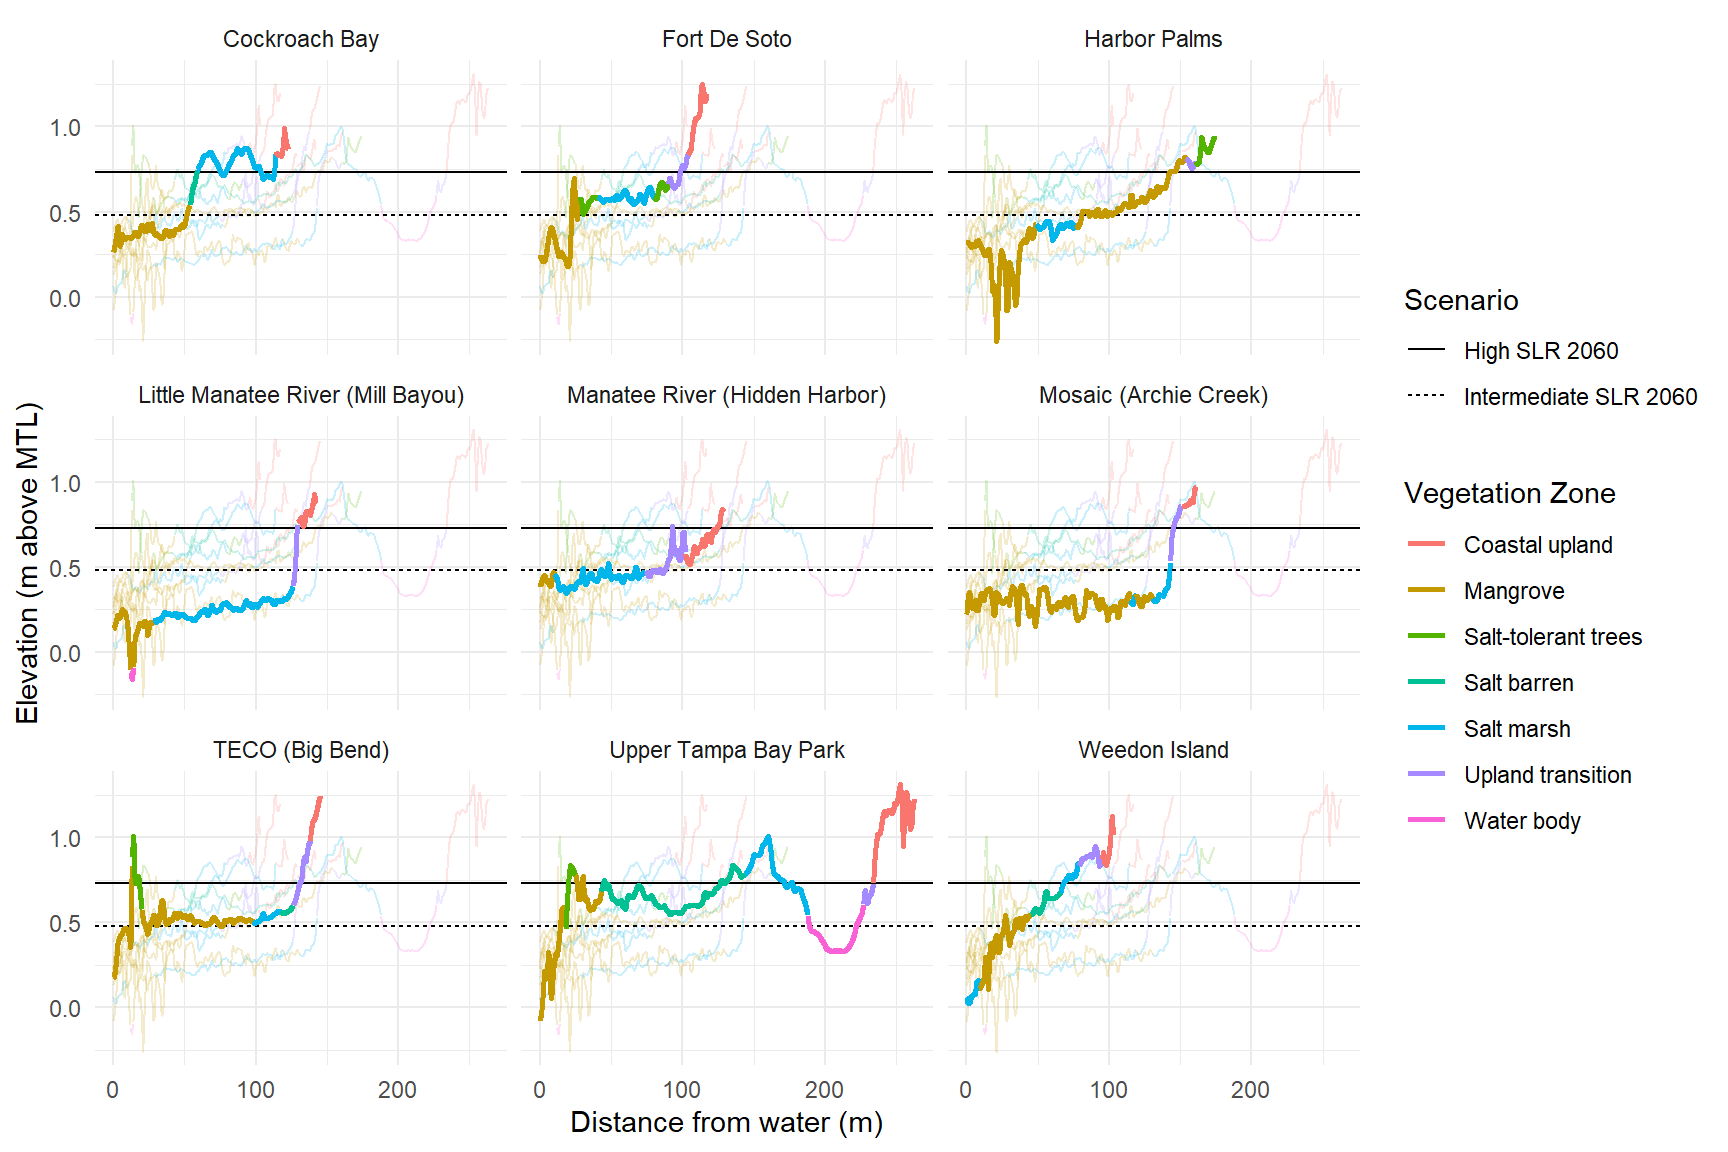
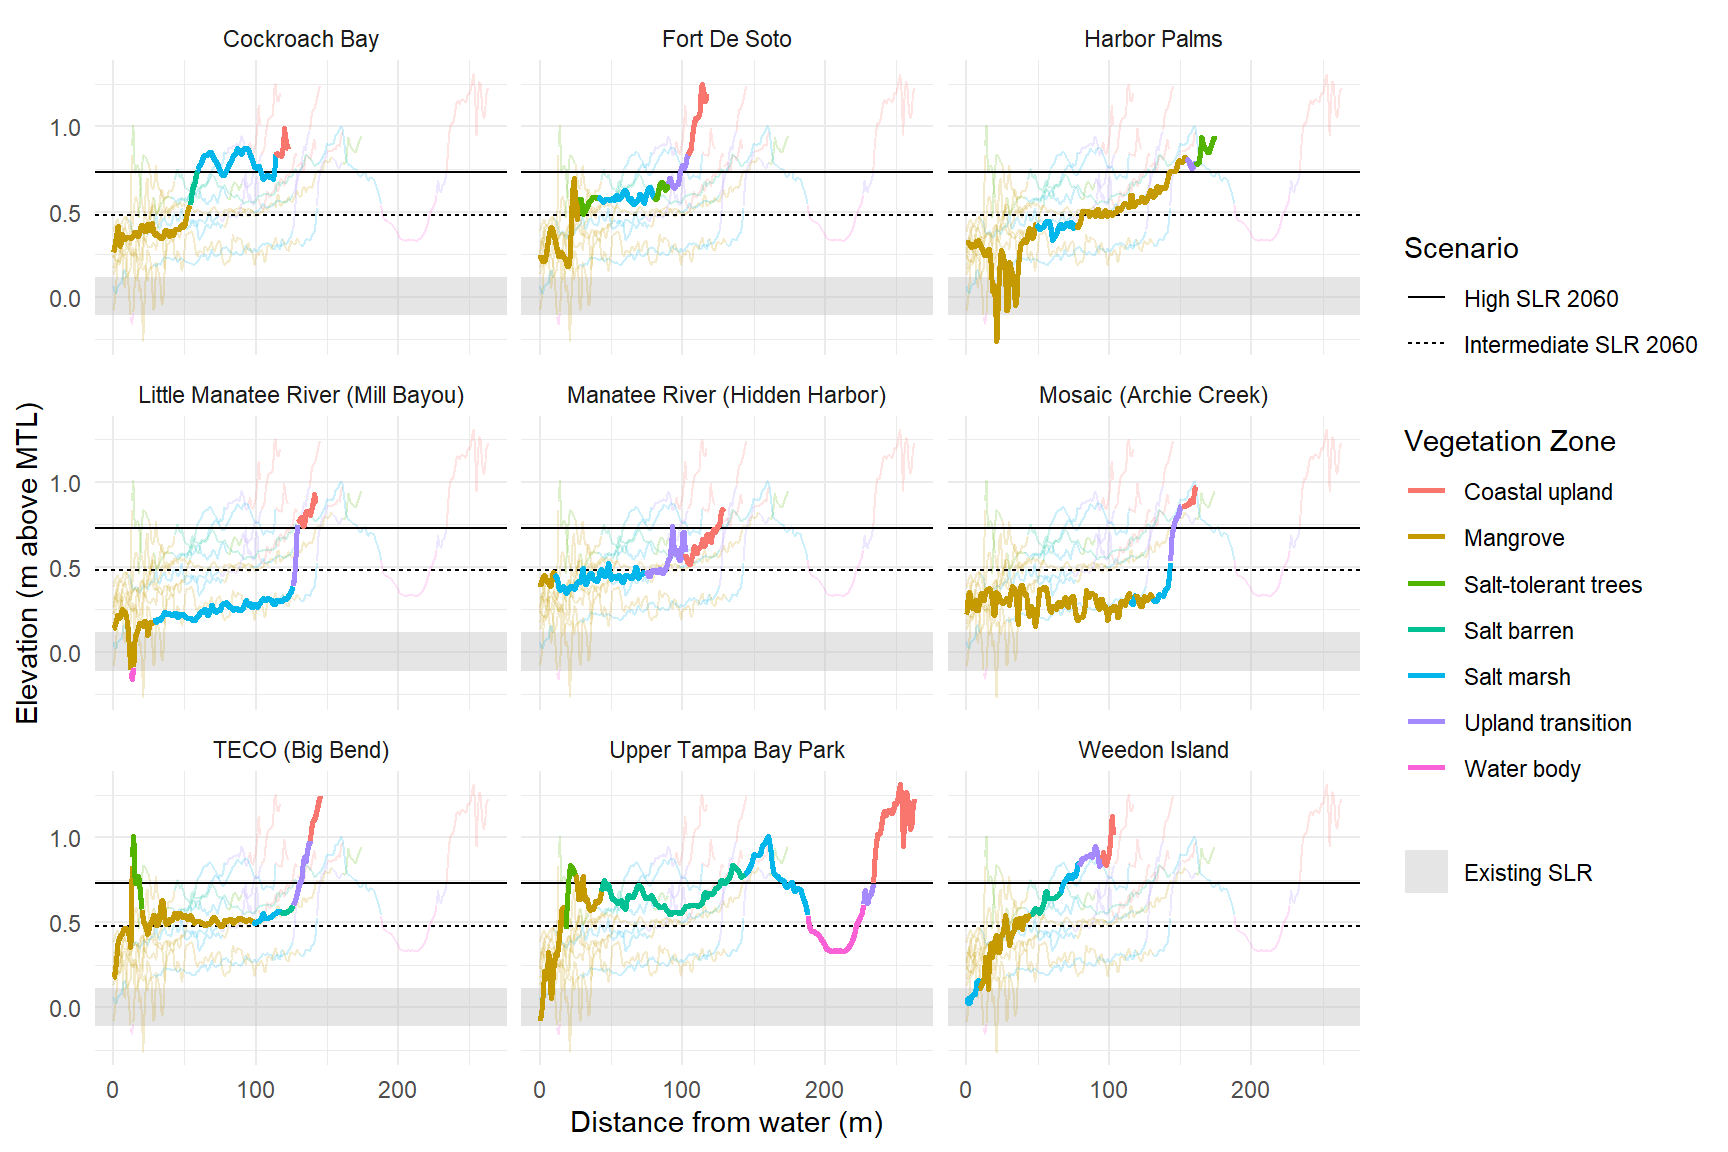
add existing SLR to plot for manu fig

diff --git a/docs/manu_figs.html b/docs/manu_figs.html
@@ -296,28 +296,37 @@ div.csl-indent {
 <span id="cb3-81"><a href="#cb3-81" aria-hidden="true" tabindex="-1"></a>  <span class="at">elev =</span> <span class="fu">c</span>(<span class="fl">0.73</span>, <span class="fl">0.48</span>)</span>
 <span id="cb3-82"><a href="#cb3-82" aria-hidden="true" tabindex="-1"></a>)</span>
 <span id="cb3-83"><a href="#cb3-83" aria-hidden="true" tabindex="-1"></a></span>
-<span id="cb3-84"><a href="#cb3-84" aria-hidden="true" tabindex="-1"></a>p <span class="ot">&lt;-</span> <span class="fu">ggplot</span>(toplo, <span class="fu">aes</span>(<span class="at">x =</span> Meter, <span class="at">y =</span> Elevation_MTL, <span class="at">color =</span> Simplified_zone_name, <span class="at">group =</span> zone_group)) <span class="sc">+</span></span>
-<span id="cb3-85"><a href="#cb3-85" aria-hidden="true" tabindex="-1"></a>  <span class="fu">geom_line</span>(<span class="at">data =</span> toplo2, <span class="fu">aes</span>(<span class="at">x =</span> Meter, <span class="at">y =</span> Elevation_MTL, <span class="at">group =</span> </span>
-<span id="cb3-86"><a href="#cb3-86" aria-hidden="true" tabindex="-1"></a>    zone_group, <span class="at">color =</span> Simplified_zone_name), <span class="at">alpha =</span> <span class="fl">0.2</span>) <span class="sc">+</span></span>
-<span id="cb3-87"><a href="#cb3-87" aria-hidden="true" tabindex="-1"></a>  <span class="fu">geom_hline</span>(<span class="at">data =</span> lns, <span class="fu">aes</span>(<span class="at">yintercept =</span> elev, <span class="at">linetype =</span> Scenario), <span class="at">color =</span> <span class="st">'black'</span>) <span class="sc">+</span></span>
-<span id="cb3-88"><a href="#cb3-88" aria-hidden="true" tabindex="-1"></a>  <span class="fu">geom_line</span>(<span class="at">size =</span> <span class="dv">1</span>) <span class="sc">+</span> </span>
-<span id="cb3-89"><a href="#cb3-89" aria-hidden="true" tabindex="-1"></a>  <span class="fu">facet_wrap</span>(<span class="sc">~</span> Site) <span class="sc">+</span></span>
-<span id="cb3-90"><a href="#cb3-90" aria-hidden="true" tabindex="-1"></a>  <span class="fu">theme_minimal</span>() <span class="sc">+</span></span>
-<span id="cb3-91"><a href="#cb3-91" aria-hidden="true" tabindex="-1"></a><span class="co">#   theme(</span></span>
-<span id="cb3-92"><a href="#cb3-92" aria-hidden="true" tabindex="-1"></a><span class="co">#     legend.position = "bottom"</span></span>
-<span id="cb3-93"><a href="#cb3-93" aria-hidden="true" tabindex="-1"></a><span class="co">#   ) +</span></span>
-<span id="cb3-94"><a href="#cb3-94" aria-hidden="true" tabindex="-1"></a>  <span class="fu">labs</span>(</span>
-<span id="cb3-95"><a href="#cb3-95" aria-hidden="true" tabindex="-1"></a>    <span class="at">x =</span> <span class="st">"Distance from water (m)"</span>, </span>
-<span id="cb3-96"><a href="#cb3-96" aria-hidden="true" tabindex="-1"></a>    <span class="at">y =</span> <span class="st">"Elevation (m above MTL)"</span>, </span>
-<span id="cb3-97"><a href="#cb3-97" aria-hidden="true" tabindex="-1"></a>    <span class="at">color =</span> <span class="st">"Vegetation Zone"</span></span>
-<span id="cb3-98"><a href="#cb3-98" aria-hidden="true" tabindex="-1"></a>  )</span>
-<span id="cb3-99"><a href="#cb3-99" aria-hidden="true" tabindex="-1"></a>p</span></code></pre></div><button title="Copy to Clipboard" class="code-copy-button"><i class="bi"></i></button></div>
+<span id="cb3-84"><a href="#cb3-84" aria-hidden="true" tabindex="-1"></a>rects <span class="ot">&lt;-</span> <span class="fu">tibble</span>(</span>
+<span id="cb3-85"><a href="#cb3-85" aria-hidden="true" tabindex="-1"></a>  <span class="at">Site =</span> <span class="fu">unique</span>(toplo<span class="sc">$</span>Site),</span>
+<span id="cb3-86"><a href="#cb3-86" aria-hidden="true" tabindex="-1"></a>  <span class="at">ymin =</span> <span class="sc">-</span><span class="fl">0.11</span>,</span>
+<span id="cb3-87"><a href="#cb3-87" aria-hidden="true" tabindex="-1"></a>  <span class="at">ymax =</span> <span class="fl">0.114</span></span>
+<span id="cb3-88"><a href="#cb3-88" aria-hidden="true" tabindex="-1"></a>)</span>
+<span id="cb3-89"><a href="#cb3-89" aria-hidden="true" tabindex="-1"></a></span>
+<span id="cb3-90"><a href="#cb3-90" aria-hidden="true" tabindex="-1"></a>p <span class="ot">&lt;-</span> <span class="fu">ggplot</span>(toplo, <span class="fu">aes</span>(<span class="at">x =</span> Meter, <span class="at">y =</span> Elevation_MTL, <span class="at">color =</span> Simplified_zone_name, <span class="at">group =</span> zone_group)) <span class="sc">+</span></span>
+<span id="cb3-91"><a href="#cb3-91" aria-hidden="true" tabindex="-1"></a>  <span class="fu">geom_rect</span>(<span class="at">data =</span> rects, <span class="fu">aes</span>(<span class="at">ymin =</span> ymin, <span class="at">ymax =</span> ymax, <span class="at">fill =</span> <span class="st">'Existing SLR'</span>, <span class="at">xmin =</span> <span class="sc">-</span><span class="cn">Inf</span>, <span class="at">xmax =</span> <span class="cn">Inf</span>), <span class="at">alpha =</span> <span class="fl">0.4</span>, <span class="at">inherit.aes =</span> F) <span class="sc">+</span></span>
+<span id="cb3-92"><a href="#cb3-92" aria-hidden="true" tabindex="-1"></a>  <span class="fu">geom_line</span>(<span class="at">data =</span> toplo2, <span class="fu">aes</span>(<span class="at">x =</span> Meter, <span class="at">y =</span> Elevation_MTL, <span class="at">group =</span> </span>
+<span id="cb3-93"><a href="#cb3-93" aria-hidden="true" tabindex="-1"></a>    zone_group, <span class="at">color =</span> Simplified_zone_name), <span class="at">alpha =</span> <span class="fl">0.2</span>) <span class="sc">+</span></span>
+<span id="cb3-94"><a href="#cb3-94" aria-hidden="true" tabindex="-1"></a>  <span class="fu">geom_hline</span>(<span class="at">data =</span> lns, <span class="fu">aes</span>(<span class="at">yintercept =</span> elev, <span class="at">linetype =</span> Scenario), <span class="at">color =</span> <span class="st">'black'</span>) <span class="sc">+</span></span>
+<span id="cb3-95"><a href="#cb3-95" aria-hidden="true" tabindex="-1"></a>  <span class="fu">geom_line</span>(<span class="at">size =</span> <span class="dv">1</span>) <span class="sc">+</span> </span>
+<span id="cb3-96"><a href="#cb3-96" aria-hidden="true" tabindex="-1"></a>  <span class="fu">scale_fill_manual</span>(<span class="at">values =</span> <span class="st">'grey'</span>) <span class="sc">+</span></span>
+<span id="cb3-97"><a href="#cb3-97" aria-hidden="true" tabindex="-1"></a>  <span class="fu">facet_wrap</span>(<span class="sc">~</span> Site) <span class="sc">+</span></span>
+<span id="cb3-98"><a href="#cb3-98" aria-hidden="true" tabindex="-1"></a>  <span class="fu">theme_minimal</span>() <span class="sc">+</span></span>
+<span id="cb3-99"><a href="#cb3-99" aria-hidden="true" tabindex="-1"></a><span class="co">#   theme(</span></span>
+<span id="cb3-100"><a href="#cb3-100" aria-hidden="true" tabindex="-1"></a><span class="co">#     legend.position = "bottom"</span></span>
+<span id="cb3-101"><a href="#cb3-101" aria-hidden="true" tabindex="-1"></a><span class="co">#   ) +</span></span>
+<span id="cb3-102"><a href="#cb3-102" aria-hidden="true" tabindex="-1"></a>  <span class="fu">labs</span>(</span>
+<span id="cb3-103"><a href="#cb3-103" aria-hidden="true" tabindex="-1"></a>    <span class="at">x =</span> <span class="st">"Distance from water (m)"</span>, </span>
+<span id="cb3-104"><a href="#cb3-104" aria-hidden="true" tabindex="-1"></a>    <span class="at">y =</span> <span class="st">"Elevation (m above MTL)"</span>, </span>
+<span id="cb3-105"><a href="#cb3-105" aria-hidden="true" tabindex="-1"></a>    <span class="at">color =</span> <span class="st">"Vegetation Zone"</span>, </span>
+<span id="cb3-106"><a href="#cb3-106" aria-hidden="true" tabindex="-1"></a>    <span class="at">fill =</span> <span class="cn">NULL</span></span>
+<span id="cb3-107"><a href="#cb3-107" aria-hidden="true" tabindex="-1"></a>  )</span>
+<span id="cb3-108"><a href="#cb3-108" aria-hidden="true" tabindex="-1"></a>p</span></code></pre></div><button title="Copy to Clipboard" class="code-copy-button"><i class="bi"></i></button></div>
 </details>
 <div class="cell-output-display">
 <div class="quarto-figure quarto-figure-center">
 <figure class="figure">
-<p><a href="manu_figs_files/figure-html/slrzones-1.png" class="lightbox" data-gallery="quarto-lightbox-gallery-2" title="Vegetation zones and elevations along transects by sites in Tampa Bay, Florida. Black lines indicate projected sea level rise by 2060 under high and intermediate scenarios [@sweet2022]."><img src="manu_figs_files/figure-html/slrzones-1.png" class="img-fluid figure-img" width="864" alt="Vegetation zones and elevations along transects by sites in Tampa Bay, Florida. Black lines indicate projected sea level rise by 2060 under high and intermediate scenarios (Sweet et al. 2022)."></a></p>
-<figcaption>Vegetation zones and elevations along transects by sites in Tampa Bay, Florida. Black lines indicate projected sea level rise by 2060 under high and intermediate scenarios <span class="citation" data-cites="sweet2022">(<a href="#ref-sweet2022" role="doc-biblioref">Sweet et al. 2022</a>)</span>.</figcaption>
+<p><a href="manu_figs_files/figure-html/slrzones-1.png" class="lightbox" data-gallery="quarto-lightbox-gallery-2" title="Vegetation zones and elevations along transects by sites in Tampa Bay, Florida. Black lines indicate projected sea level rise by 2060 under high and intermediate scenarios [@sweet2022]. Shaded gray area indicates existing sea level rise from historical tidal gauge data."><img src="manu_figs_files/figure-html/slrzones-1.png" class="img-fluid figure-img" width="864" alt="Vegetation zones and elevations along transects by sites in Tampa Bay, Florida. Black lines indicate projected sea level rise by 2060 under high and intermediate scenarios (Sweet et al. 2022). Shaded gray area indicates existing sea level rise from historical tidal gauge data."></a></p>
+<figcaption>Vegetation zones and elevations along transects by sites in Tampa Bay, Florida. Black lines indicate projected sea level rise by 2060 under high and intermediate scenarios <span class="citation" data-cites="sweet2022">(<a href="#ref-sweet2022" role="doc-biblioref">Sweet et al. 2022</a>)</span>. Shaded gray area indicates existing sea level rise from historical tidal gauge data.</figcaption>
 </figure>
 </div>
 </div>
